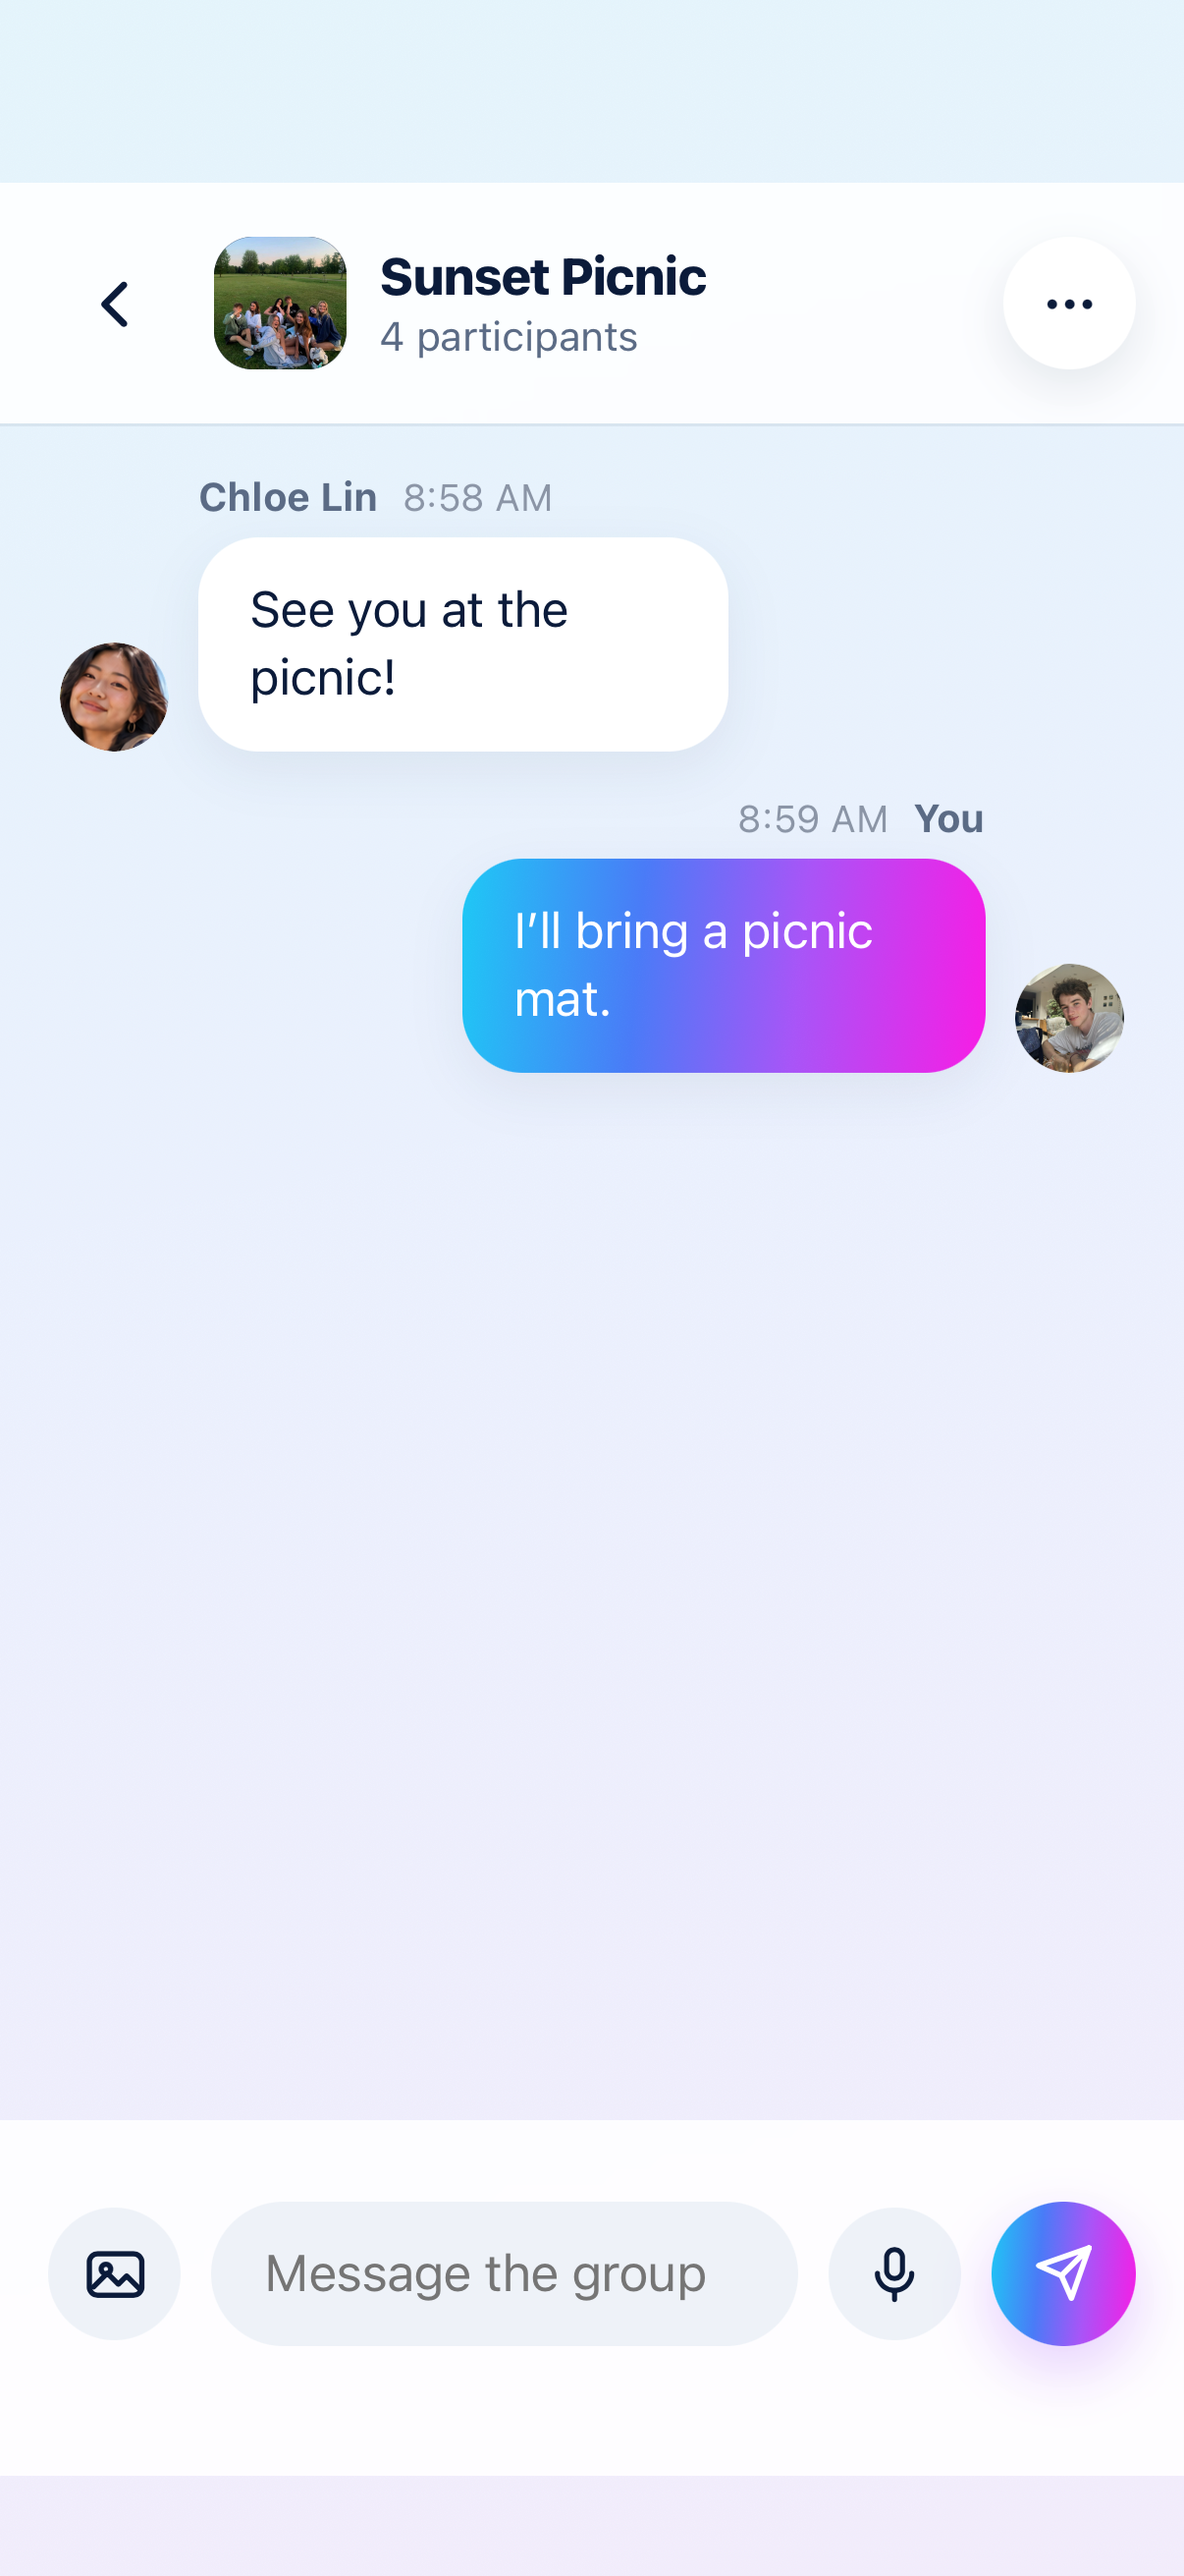
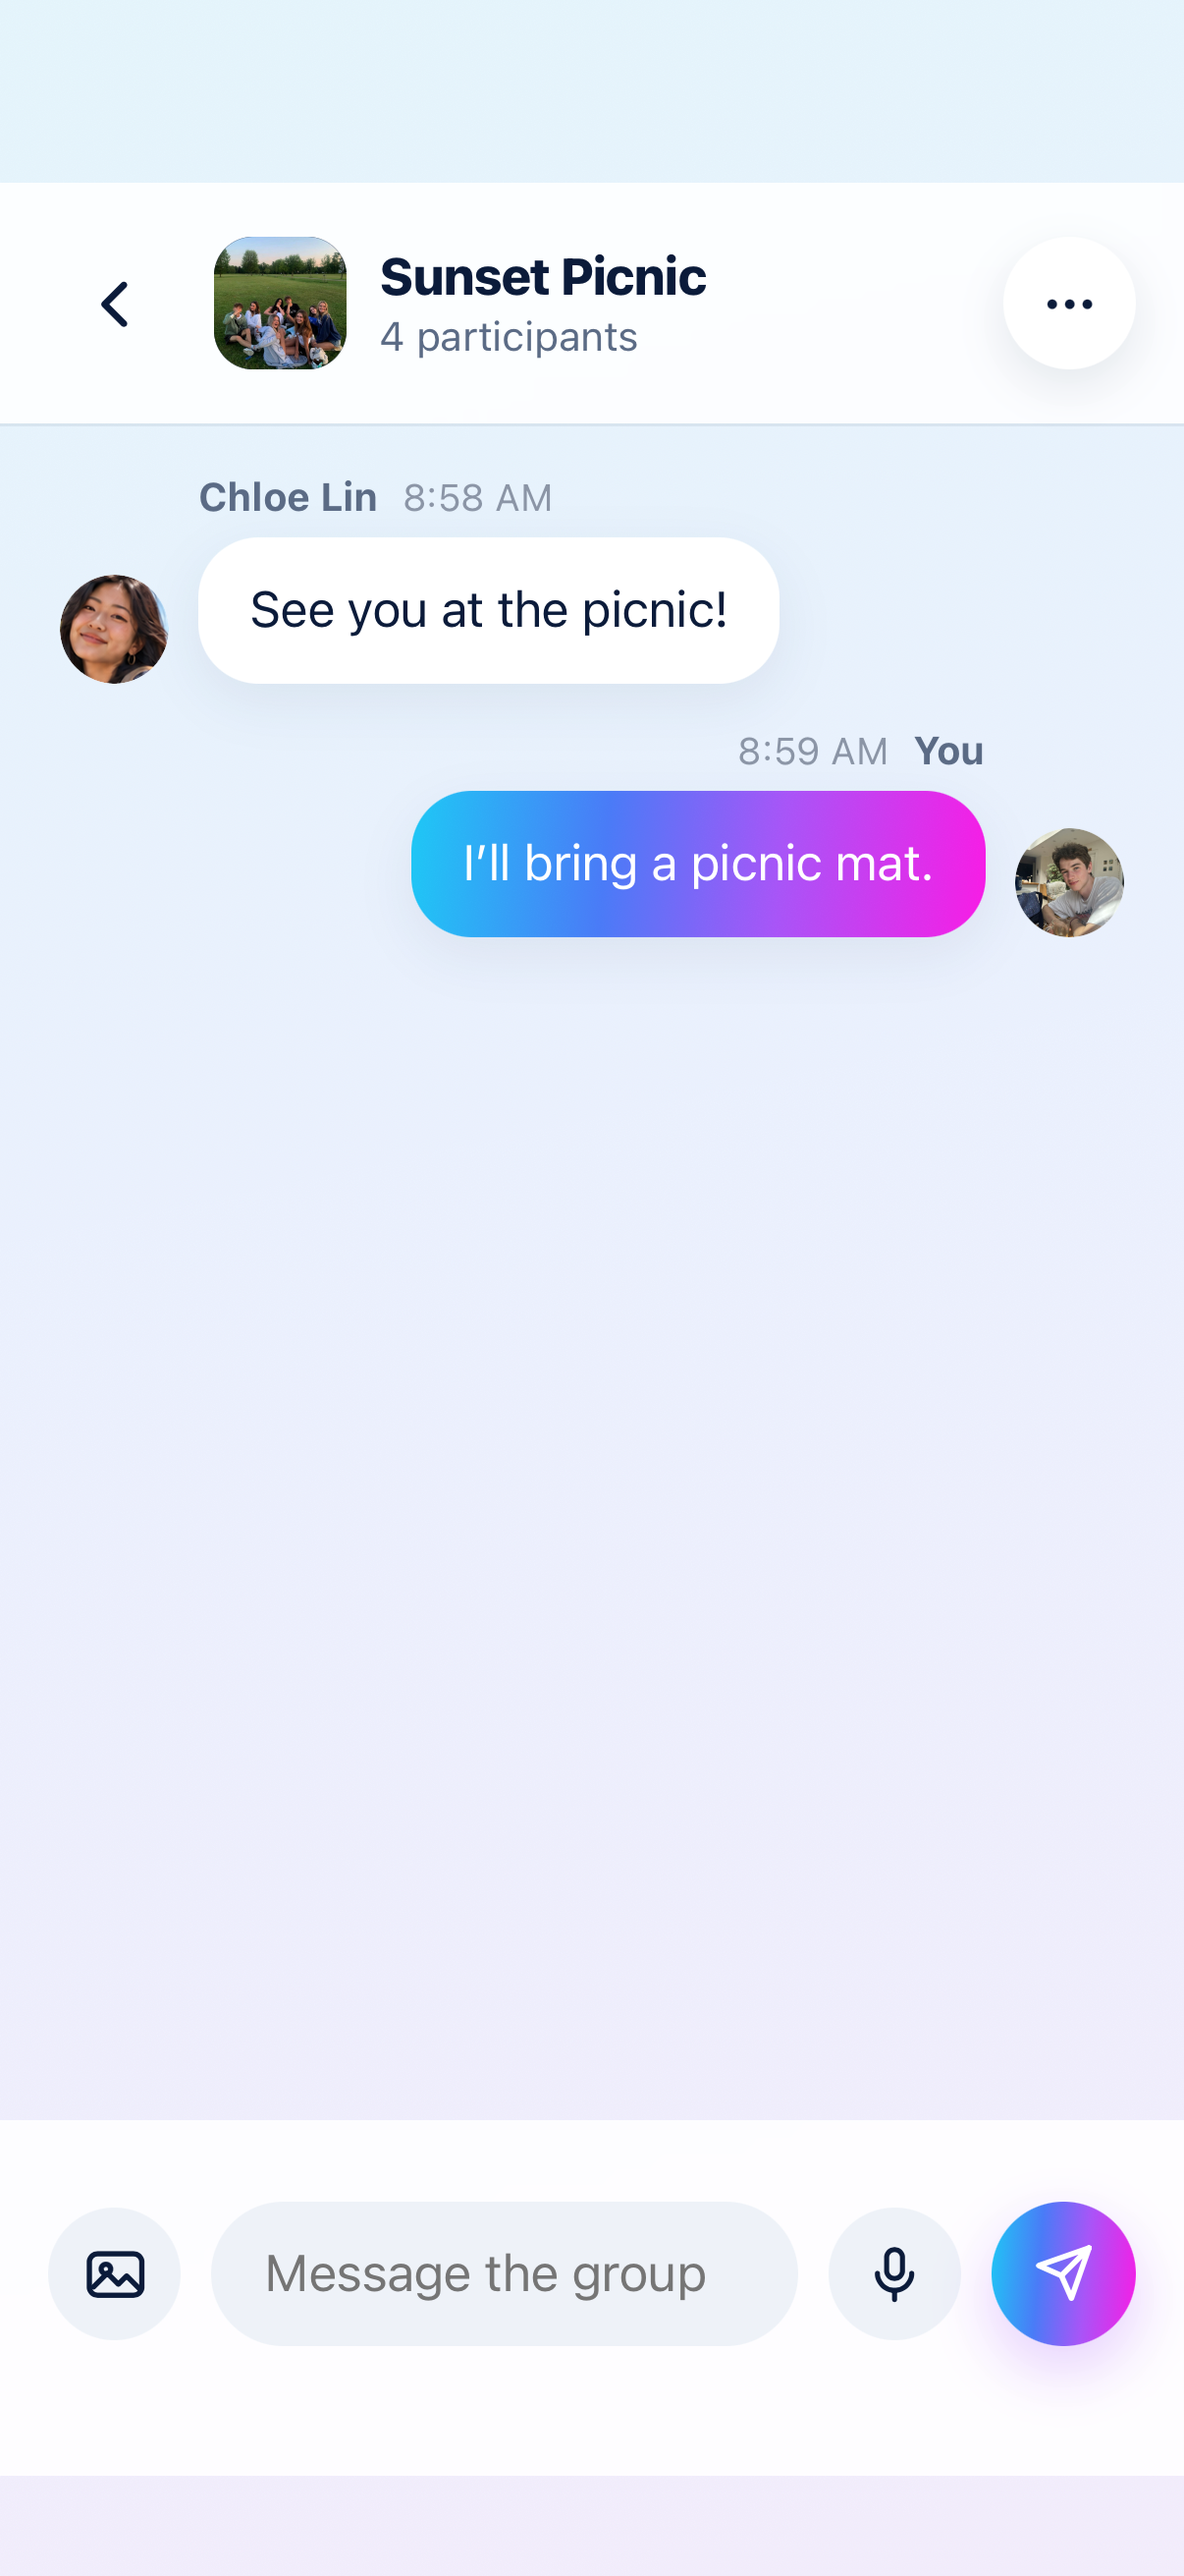
fix(events): restore WebKit source bubble wrapping and verify native flow

Changed region(s): [[0.0307, 0.1854, 0.9511, 0.4325]]

diff --git a/ios/cimoaNeapo/Tests/HostTests.swift b/ios/cimoaNeapo/Tests/HostTests.swift
@@ -2539,7 +2539,8 @@ final class HostTests: XCTestCase {
             let metrics = try await script(host, """
             const box=s=>{const r=document.querySelector(s).getBoundingClientRect();return{x:r.x,y:r.y,width:r.width,height:r.height,bottom:r.bottom}};
             const data=JSON.parse(localStorage.getItem('cimoa_app_state_v2')).data;
-            return {header:box('.event-group-header'),footer:box('.event-group-composer'),safeTop:box('.event-group-page > .safe-area').height,width:innerWidth,height:innerHeight,mineAvatars:document.querySelectorAll('.event-message--mine .event-message-avatar').length,read:data.messages.find(m=>m.message_id==='group_pixel_1').read_by,placeholder:document.querySelector('.event-group-composer .uni-input-placeholder').textContent,state:localStorage.getItem('cimoa_app_state_v2')}
+            const messageStyles=['.event-group-messages','.event-message','.event-message-main','.event-message-bubble','.event-message-bubble uni-text'].map(selector=>{const e=document.querySelector(selector),c=getComputedStyle(e);return{selector,box:box(selector),font:c.font,width:c.width,maxWidth:c.maxWidth,flex:c.flex,whiteSpace:c.whiteSpace,wordBreak:c.wordBreak,overflowWrap:c.overflowWrap}});
+            return {header:box('.event-group-header'),footer:box('.event-group-composer'),safeTop:box('.event-group-page > .safe-area').height,width:innerWidth,height:innerHeight,messageStyles,mineAvatars:document.querySelectorAll('.event-message--mine .event-message-avatar').length,read:data.messages.find(m=>m.message_id==='group_pixel_1').read_by,placeholder:document.querySelector('.event-group-composer .uni-input-placeholder').textContent,state:localStorage.getItem('cimoa_app_state_v2')}
             """) as! [String:Any]
             let footer = metrics["footer"] as! [String:Double], header = metrics["header"] as! [String:Double]
             XCTAssertEqual(header["height"]!, 80 * (metrics["width"] as! Double) / 393, accuracy: 1)
@@ -2547,6 +2548,9 @@ final class HostTests: XCTestCase {
             XCTAssertLessThanOrEqual(footer["bottom"]!, (metrics["height"] as! Double) - Double(host.view.safeAreaInsets.bottom) + 1)
             XCTAssertEqual(metrics["mineAvatars"] as? Int, 1)
             XCTAssertEqual(metrics["placeholder"] as? String, "Message the group")
+            let messageStyles = metrics["messageStyles"] as! [[String:Any]]
+            let firstBubble = messageStyles.first { $0["selector"] as? String == ".event-message-bubble" }!["box"] as! [String:Double]
+            XCTAssertLessThan(firstBubble["height"]!, 60 * (metrics["width"] as! Double) / 393, "Short messages must not acquire an extra pre-wrap line in WebKit")
             XCTAssertTrue((metrics["read"] as! [String]).contains("user_cimoa"))
             let image = try await host.webView.takeSnapshot(configuration: nil)
             try image.pngData()!.write(to: output.appendingPathComponent("actual-wkwebview.png"))

diff --git a/src/pages/events/group.vue b/src/pages/events/group.vue
@@ -132,8 +132,8 @@ const navigate_menu = kind => { close(); go(kind) }
 .event-group-notice-copy { flex: 1; min-width: 0; }
 .event-group-notice .event-person-name { font-size: 32.443rpx; font-weight: 800; letter-spacing: -0.02em; }
 .event-group-notice-copy > text + text { display: block; margin-top: 3.817rpx; font-size: 29.58rpx; color: var(--cimoa-text-secondary); }
-.event-message-main { display: flex; flex-direction: column; align-items: flex-start; gap: 9.542rpx; width: max-content; }
-.event-message-bubble { max-width: 100%; }
+.event-message-main { display: flex; flex-direction: column; align-items: flex-start; gap: 9.542rpx; }
+.event-message-bubble { max-width: 100%; white-space: normal; text-wrap: pretty; }
 .event-message--mine .event-message-main { align-items: flex-end; }
 .event-message-meta { padding: 0; align-items: center; color: var(--cimoa-text-secondary); }
 .event-message-meta .event-message-name { color: var(--cimoa-text-secondary); font-size: 24.809rpx; font-weight: 700; }

diff --git a/docs/ui-restoration/event-group/acceptance.md b/docs/ui-restoration/event-group/acceptance.md
@@ -1,11 +1,11 @@
 # Event Group 本轮验收（2026-10-17）
 
 - 来源模板 2049–2112；源 fragment、全部样式、SVG、交互契约见同目录 JSON。
-- UI：删除无来源横幅，恢复 80px header、118px composer、Message the group、消息左右头像及时间顺序、真实主办方通知结构、媒体完整预览。Safari 消息列显式采用 intrinsic width 并保持 max-width:74%，避免短消息被额外压窄；长内容仍限宽换行。
+- UI：删除无来源横幅，恢复 80px header、118px composer、Message the group、消息左右头像及时间顺序、真实主办方通知结构、媒体完整预览。Safari 消息气泡恢复原型 white-space:normal / text-wrap:pretty，并保持消息列 max-width:74%；原有额外 pre-wrap 在 WebKit 造成短消息多一行，已增加原生高度断言防止回归；长内容仍限宽换行。
 - 数据：唯一群聊；每次报名独立 admission_id；认证 flow / 报名上下文发生变化后拒绝旧异步媒体提交；失败清理本次新建 Blob，不触碰其他媒体。
 - 已读：只标记当前可见群消息自己的 read_by；500ms Loading 在写入前，刷新不重复消费。
 - 浏览器：既有群聊文字/图片/受控录音/刷新/静音/取消报名三个闭环通过；新增独立原稿 reference、actual、overlay、diff、已读 Loading 及小屏安全区回归通过（详见 JSON）。
 - 数据测试：全模块回归 137/137 通过。
-- WKWebView：iPhone 17 Pro / iOS 26.5 第一轮 2/2 通过；完整报名→群聊媒体刷新→退出，以及新增已读/返回/安全区回归。最终构建仍需再核验。
+- WKWebView：iPhone 17 Pro / iOS 26.5 第一轮 2/2 通过；完整报名→群聊媒体刷新→退出，以及新增已读/返回/安全区回归。最终源修正构建2/2再次通过，短消息高度49.59、宽197.16 CSS px，不再额外换行；原生与当前H5构建清单一致。
 - 未通过项：真实麦克风成功路径（系统没有可用输入设备）；手动系统权限/键盘操作（Mac 锁屏，自动解锁失败）；其他 Events 页独立像素叠加证据仍未完成。
 - 状态：local_acceptance=passed，visual_acceptance=pending，full_acceptance=pending，status=pending；不标 verified，不声明整模块像素级验收完成。
